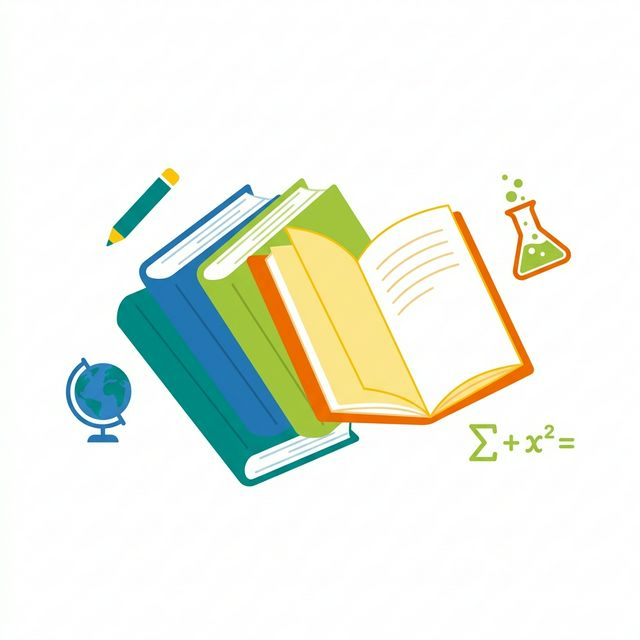
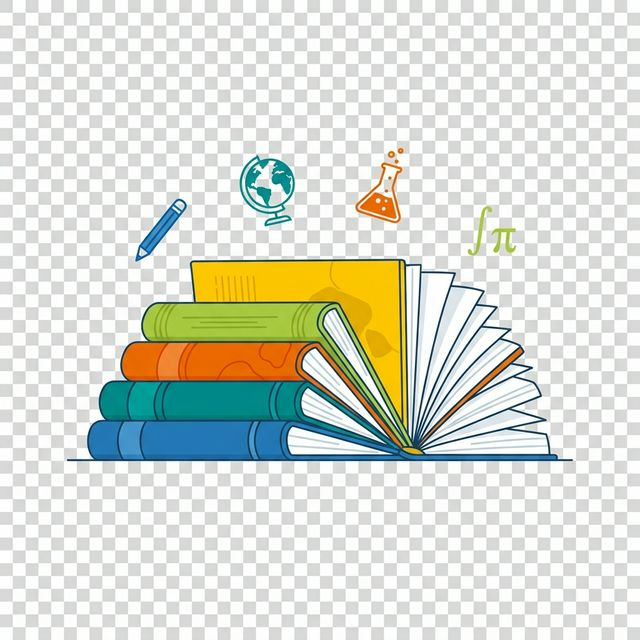
Replace illustration with transparent PNG, constrain height to 200px

diff --git a/css/style.css b/css/style.css
@@ -1506,16 +1506,16 @@ a {
 
 /* Build Section Illustration */
 .build__illustration {
-    margin: 2rem 0 1rem;
-    border-radius: 1.5rem;
+    margin: 1.5rem 0 0.5rem;
+    max-height: 200px;
     overflow: hidden;
 }
 
 .build__illustration img {
     width: 100%;
-    height: auto;
+    max-height: 200px;
+    object-fit: contain;
     display: block;
-    object-fit: cover;
 }
 
 /* ==========================================================================
